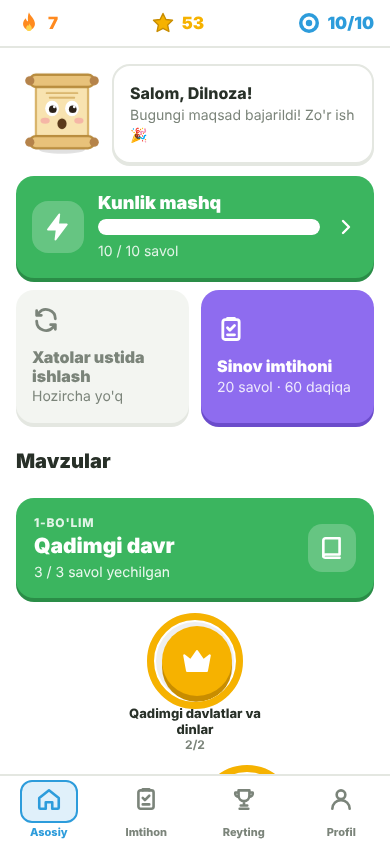
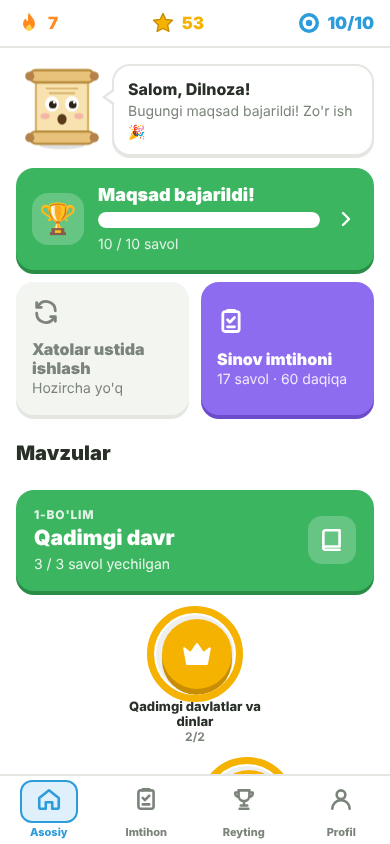
Dizayn: onboarding, konfetti, animatsiyalar; rim raqamlari tuzatildi
- Birinchi kirishda kutib olish oynasi va katta kartalar orqali alifbo tanlash
- Yaxshi natija va kunlik maqsad bajarilganda konfetti, XP/foiz sanab chiqadi
- Qahramonning nutq pufagi, skelet yuklanish, javobda sakrash/silkinish
- Bajarilgan kunlik maqsad uchun alohida ko'rinish
- Qiyinlik yulduzlari: bo'sh yulduzlar xira rangda
- Izoh oynasi ochiq bo'lsa pastki variantlarni ko'rish uchun joy qoldiriladi
- Rim raqamlari (XIV asr, Kir II, Pyotr I) kirillga o'girilmaydi
- prefers-reduced-motion: harakatni kamaytirishni xohlaganlar uchun animatsiyalar o'chadi
- README yangilandi

Claude-Session: https://claude.ai/code/session_01N5WVTvoap9F5uzAW8nn97q

Changed region(s): [[0.0308, 0.0616, 0.9538, 0.8934], [0.5538, 0.8934, 0.7385, 0.9242], [0.8615, 0.2464, 0.8923, 0.2773]]

diff --git a/webapp/src/styles.css b/webapp/src/styles.css
@@ -430,3 +430,51 @@ table.grades td { padding: 6px 4px; border-bottom: 1px solid var(--border); }
   display: grid; place-items: center; overflow: hidden; flex-shrink: 0; color: var(--muted); font-size: 12px; font-weight: 800;
 }
 .image-field .thumb img { width: 100%; height: 100%; object-fit: cover; }
+
+/* ============ Konfetti, skelet, nutq pufagi ============ */
+.confetti { position: fixed; inset: 0; width: 100vw; height: 100vh; pointer-events: none; z-index: 80; }
+.skel {
+  border-radius: 16px; background: linear-gradient(90deg, var(--surface-2) 25%, var(--border) 50%, var(--surface-2) 75%);
+  background-size: 200% 100%; animation: shimmer 1.3s linear infinite;
+}
+@keyframes shimmer { from { background-position: 200% 0; } to { background-position: -200% 0; } }
+
+.bubble {
+  position: relative; background: var(--surface); border: 2px solid var(--border); border-radius: 18px;
+  padding: 12px 14px; box-shadow: var(--shadow);
+}
+.bubble::before, .bubble::after { content: ""; position: absolute; border-style: solid; }
+/* chap tomonga qaragan dumcha (qahramon chapda) */
+.bubble.left::before { left: -12px; top: 22px; border-width: 9px 12px 9px 0; border-color: transparent var(--border) transparent transparent; }
+.bubble.left::after { left: -8px; top: 24px; border-width: 7px 10px 7px 0; border-color: transparent var(--surface) transparent transparent; }
+/* pastga qaragan dumcha (qahramon pastda) */
+.onboarding .bubble::before { left: 50%; bottom: -12px; margin-left: -9px; border-width: 12px 9px 0; border-color: var(--border) transparent transparent; }
+.onboarding .bubble::after { left: 50%; bottom: -8px; margin-left: -7px; border-width: 10px 7px 0; border-color: var(--surface) transparent transparent; }
+.onboarding .bubble { font-weight: 800; margin-bottom: 4px; }
+
+.feature-line { padding: 10px 12px; border: 2px solid var(--border); border-radius: 16px; gap: 14px; }
+.feature-emoji { font-size: 28px; width: 44px; height: 44px; display: grid; place-items: center; background: var(--surface-2); border-radius: 12px; }
+.alphabet-pick { display: grid; grid-template-columns: 1fr 1fr; gap: 12px; }
+.alphabet-pick .pick {
+  display: flex; flex-direction: column; align-items: center; gap: 4px; padding: 18px 8px;
+  border: 2px solid var(--border); border-radius: 18px; background: var(--surface); box-shadow: 0 4px 0 var(--border);
+  font-weight: 900; font-size: 16px; transition: transform .06s;
+}
+.alphabet-pick .pick .big { font-size: 38px; line-height: 1; color: var(--muted); }
+.alphabet-pick .pick:active { transform: translateY(4px); box-shadow: none; }
+.alphabet-pick .pick.on { border-color: var(--blue); background: var(--blue-soft); box-shadow: 0 4px 0 var(--blue); color: var(--blue); }
+.alphabet-pick .pick.on .big { color: var(--blue); }
+
+/* Javob animatsiyalari */
+.option.correct { animation: bounce .45s cubic-bezier(.3,1.6,.6,1); }
+.option.wrong { animation: shake .35s ease-in-out; }
+@keyframes bounce { 0% { transform: scale(1); } 40% { transform: scale(1.04); } 100% { transform: scale(1); } }
+
+/* Natija: katta olov */
+.big-flame { position: relative; display: grid; place-items: center; }
+.big-flame .num { position: absolute; bottom: 10px; font-size: 30px; font-weight: 900; color: #fff; text-shadow: 0 2px 0 var(--orange-dark); }
+.goal-chest { font-size: 30px; }
+
+@media (prefers-reduced-motion: reduce) {
+  *, *::before, *::after { animation-duration: .01ms !important; animation-iteration-count: 1 !important; transition-duration: .01ms !important; }
+}

diff --git a/webapp/src/pages/Lesson.tsx b/webapp/src/pages/Lesson.tsx
@@ -1,5 +1,7 @@
 import { useEffect, useRef, useState } from "react";
 import { Check, Close, Cross, Flag, Flame, Star } from "../components/Icons";
+import { Confetti } from "../components/Confetti";
+import { CountUp } from "../components/CountUp";
 import { Mascot } from "../components/Mascot";
 import { QuestionView } from "../components/QuestionView";
 import { ReportSheet } from "../components/ReportSheet";
@@ -103,6 +105,7 @@ export function LessonPage({ mode, id }: { mode: Mode; id: number | null }) {
     const mood = accuracy >= 70 ? "wow" : accuracy >= 40 ? "happy" : "sad";
     return (
       <div className="page no-nav">
+        <Confetti run={accuracy >= 70 || stats.goal} />
         <div className="result-hero">
           <Mascot mood={mood} size={150} className="pop" />
           <h1 className="pop">{accuracy >= 70 ? t("Dars yakunlandi!") : t("Yaxshi harakat!")}</h1>
@@ -111,14 +114,14 @@ export function LessonPage({ mode, id }: { mode: Mode; id: number | null }) {
           </p>
         </div>
         <div className="tiles">
-          <div className="tile gold pop"><div className="label">{t("Jami XP")}</div><div className="value"><Star size={22} />{stats.xp}</div></div>
-          <div className="tile green pop"><div className="label">{t("Aniqlik")}</div><div className="value">{accuracy}%</div></div>
+          <div className="tile gold pop"><div className="label">{t("Jami XP")}</div><div className="value"><Star size={22} /><CountUp value={stats.xp} /></div></div>
+          <div className="tile green pop"><div className="label">{t("Aniqlik")}</div><div className="value"><CountUp value={accuracy} suffix="%" /></div></div>
           <div className="tile blue pop"><div className="label">{t("Vaqt")}</div><div className="value">{Math.floor(seconds / 60)}:{String(seconds % 60).padStart(2, "0")}</div></div>
         </div>
         <div className="spacer" />
         {(stats.goal || stats.streakUp) && (
           <div className="card colored orange feature pop">
-            <div className="icon-bubble"><Flame size={34} /></div>
+            <div className="icon-bubble big-flame"><Flame size={40} /></div>
             <div>
               <h3>{t(`${stats.streak} kun ketma-ket!`)}</h3>
               <div className="small muted">{stats.goal ? t("Bugungi maqsad bajarildi 🎉") : t("Ertaga ham qaytib keling!")}</div>
@@ -139,7 +142,8 @@ export function LessonPage({ mode, id }: { mode: Mode; id: number | null }) {
         <div className="grow"><Progress value={(idx + (result ? 1 : 0)) / total} /></div>
         {stats.combo >= 2 && <span className="combo pop">🔥 {stats.combo}</span>}
       </div>
-      <div className="page no-nav" style={{ paddingTop: 4 }}>
+      {/* Izoh oynasi ochiq bo'lsa, pastki variantlarni surib ko'rish uchun joy qoldiramiz */}
+      <div className="page no-nav" style={{ paddingTop: 4, paddingBottom: result ? "min(60vh, 420px)" : undefined }}>
         <div className="small muted bold" style={{ marginBottom: 8 }}>
           {source === "review" ? t("Takrorlash") : source === "daily" ? t("Kunlik mashq") : t("Mashq")} · {idx + 1}/{total}
         </div>

diff --git a/webapp/src/pages/Onboarding.tsx b/webapp/src/pages/Onboarding.tsx
@@ -1,0 +1,64 @@
+import { useState } from "react";
+import { Mascot } from "../components/Mascot";
+import { toast } from "../components/ui";
+import { api } from "../lib/api";
+import { useStore } from "../lib/store";
+import { haptic } from "../lib/telegram";
+import { toCyrillic as toCyr, type Alphabet } from "../lib/translit";
+
+const FEATURES: [string, string, string][] = [
+  ["🔥", "Har kuni 10 ta savol", "Ketma-ket kunlarni uzmang"],
+  ["🔁", "Xatolar ustida ishlash", "Xato savollar o'z vaqtida qaytadi"],
+  ["🎯", "Sinov imtihoni", "Taymer, ball va daraja bilan"],
+];
+
+/** Birinchi kirishda: kutib olish va alifbo tanlash */
+export function Onboarding() {
+  const { reload } = useStore();
+  const [choice, setChoice] = useState<Alphabet | null>(null);
+  const [busy, setBusy] = useState(false);
+  const L = (latn: string, cyrl: string) => (choice === "cyrl" ? cyrl : latn);
+
+  async function start() {
+    if (!choice) return;
+    setBusy(true);
+    try {
+      await api("/me", { method: "PATCH", body: { alphabet: choice } });
+      haptic.success();
+      await reload();
+    } catch (e) {
+      toast((e as Error).message, "error");
+      setBusy(false);
+    }
+  }
+
+  return (
+    <div className="page no-nav onboarding">
+      <div className="center stack" style={{ alignItems: "center", gap: 6 }}>
+        <div className="bubble pop">{L("Salom! Men Tarixchiman 👋", "Салом! Мен Тарихчиман 👋")}</div>
+        <Mascot size={150} mood="happy" className="bob" />
+        <h1 style={{ fontSize: 26 }}>{L("Tarixni o'yin kabi o'rganing", "Тарихни ўйин каби ўрганинг")}</h1>
+        <p className="muted">{L("Milliy sertifikatga tayyorgarlik", "Миллий сертификатга тайёргарлик")}</p>
+      </div>
+      <div className="stack" style={{ marginTop: 20 }}>
+        {FEATURES.map(([icon, title, sub]) => (
+          <div key={title} className="row feature-line">
+            <span className="feature-emoji">{icon}</span>
+            <div><div className="bold">{L(title, toCyr(title))}</div><div className="small muted">{L(sub, toCyr(sub))}</div></div>
+          </div>
+        ))}
+      </div>
+      <div className="section-title" style={{ marginTop: 20 }}>{L("Alifboni tanlang", "Алифбони танланг")}</div>
+      <div className="alphabet-pick">
+        {([["latn", "Aa", "Lotin"], ["cyrl", "Аа", "Кирилл"]] as const).map(([v, big, label]) => (
+          <button key={v} className={`pick ${choice === v ? "on" : ""}`} onClick={() => { haptic.select(); setChoice(v); }}>
+            <span className="big">{big}</span>{label}
+          </button>
+        ))}
+      </div>
+      <div className="footer-bar"><div className="inner">
+        <button className="btn block" disabled={!choice || busy} onClick={start}>{L("Boshlash", "Бошлаш")}</button>
+      </div></div>
+    </div>
+  );
+}

diff --git a/webapp/src/components/Confetti.tsx b/webapp/src/components/Confetti.tsx
@@ -1,0 +1,57 @@
+// Bayram konfettisi (canvas). Hech qanday kutubxonasiz, ~2.5 soniya.
+import { useEffect, useRef } from "react";
+
+const COLORS = ["#3bb55f", "#f6b200", "#2d9cdb", "#ff8a1f", "#8e6cef", "#eb5757"];
+
+export function Confetti({ run = true }: { run?: boolean }) {
+  const ref = useRef<HTMLCanvasElement>(null);
+  useEffect(() => {
+    if (!run) return;
+    if (window.matchMedia?.("(prefers-reduced-motion: reduce)").matches) return;
+    const canvas = ref.current!;
+    const ctx = canvas.getContext("2d")!;
+    const dpr = window.devicePixelRatio || 1;
+    const resize = () => {
+      canvas.width = window.innerWidth * dpr;
+      canvas.height = window.innerHeight * dpr;
+    };
+    resize();
+    const W = () => canvas.width;
+    const parts = Array.from({ length: 140 }, () => ({
+      x: W() / 2 + (Math.random() - 0.5) * W() * 0.3,
+      y: canvas.height * 0.35,
+      vx: (Math.random() - 0.5) * 16 * dpr,
+      vy: (-Math.random() * 16 - 6) * dpr,
+      w: (6 + Math.random() * 6) * dpr,
+      h: (8 + Math.random() * 8) * dpr,
+      r: Math.random() * Math.PI,
+      vr: (Math.random() - 0.5) * 0.3,
+      c: COLORS[Math.floor(Math.random() * COLORS.length)],
+    }));
+    const start = performance.now();
+    let frame = 0;
+    const tick = (now: number) => {
+      const t = now - start;
+      ctx.clearRect(0, 0, canvas.width, canvas.height);
+      ctx.globalAlpha = t > 1800 ? Math.max(0, 1 - (t - 1800) / 700) : 1;
+      for (const p of parts) {
+        p.vy += 0.45 * dpr;
+        p.vx *= 0.99;
+        p.x += p.vx;
+        p.y += p.vy;
+        p.r += p.vr;
+        ctx.save();
+        ctx.translate(p.x, p.y);
+        ctx.rotate(p.r);
+        ctx.fillStyle = p.c;
+        ctx.fillRect(-p.w / 2, -p.h / 2, p.w, p.h * Math.abs(Math.cos(p.r * 2)));
+        ctx.restore();
+      }
+      if (t < 2500) frame = requestAnimationFrame(tick);
+      else ctx.clearRect(0, 0, canvas.width, canvas.height);
+    };
+    frame = requestAnimationFrame(tick);
+    return () => cancelAnimationFrame(frame);
+  }, [run]);
+  return <canvas ref={ref} className="confetti" aria-hidden />;
+}

diff --git a/webapp/src/pages/Exam.tsx b/webapp/src/pages/Exam.tsx
@@ -1,5 +1,7 @@
 import { useCallback, useEffect, useMemo, useRef, useState } from "react";
 import { ChevronLeft, ChevronRight, Clipboard, Clock, Close } from "../components/Icons";
+import { Confetti } from "../components/Confetti";
+import { CountUp } from "../components/CountUp";
 import { Mascot } from "../components/Mascot";
 import { QuestionView } from "../components/QuestionView";
 import { Loading, Ring, Sheet, toast } from "../components/ui";
@@ -218,6 +220,7 @@ function ExamResult({ result, onDone }: { result: Result; onDone: () => void }) 
   const item = open !== null ? result.items[open] : null;
   return (
     <div className="page no-nav stack">
+      <Confetti run={result.percent >= 50} />
       <div className="result-hero">
         <div className="grade-badge pop">{result.grade}</div>
         <h1 style={{ color: "var(--purple)" }}>{t("Imtihon yakunlandi!")}</h1>
@@ -226,7 +229,7 @@ function ExamResult({ result, onDone }: { result: Result; onDone: () => void }) 
       <div className="row" style={{ justifyContent: "center" }}>
         <Ring value={result.percent / 100} size={150} stroke={14} color="var(--purple)">
           <div className="center">
-            <div style={{ fontSize: 30, fontWeight: 900 }}>{result.score}</div>
+            <div style={{ fontSize: 30, fontWeight: 900 }}>{result.score % 1 ? result.score : <CountUp value={result.score} />}</div>
             <div className="small muted">/ {result.max_score} {t("ball")}</div>
           </div>
         </Ring>

diff --git a/webapp/src/pages/Home.tsx b/webapp/src/pages/Home.tsx
@@ -78,7 +78,7 @@ export function HomePage() {
         {/* Salomlashish */}
         <div className="row" style={{ gap: 4 }}>
           <Mascot size={92} mood={goalDone ? "wow" : "happy"} className="bob" />
-          <div className="card grow" style={{ position: "relative" }}>
+          <div className="bubble left grow">
             <div className="bold">{t(firstName ? `Salom, ${firstName}!` : "Salom!")}</div>
             <div className="small muted">
               {goalDone
@@ -92,9 +92,9 @@ export function HomePage() {
 
         {/* Kunlik mashq */}
         <button className="card tap colored green feature" onClick={() => { haptic.tap(); navigate("/lesson?mode=daily"); }}>
-          <div className="icon-bubble"><Lightning size={30} /></div>
+          <div className="icon-bubble">{goalDone ? <span className="goal-chest">🏆</span> : <Lightning size={30} />}</div>
           <div className="grow stack" style={{ gap: 6 }}>
-            <h3>{t("Kunlik mashq")}</h3>
+            <h3>{goalDone ? t("Maqsad bajarildi!") : t("Kunlik mashq")}</h3>
             <Progress value={done / goal} onColor />
             <div className="small muted">{t(`${Math.min(done, goal)} / ${goal} savol`)}</div>
           </div>

diff --git a/webapp/src/components/Skeleton.tsx b/webapp/src/components/Skeleton.tsx
@@ -1,0 +1,14 @@
+/** Ma'lumot yuklanayotganda sahifa shaklidagi "skelet" */
+export function HomeSkeleton() {
+  return (
+    <div className="page stack" aria-busy>
+      <div className="row between"><div className="skel" style={{ width: 60, height: 26 }} /><div className="skel" style={{ width: 60, height: 26 }} /><div className="skel" style={{ width: 60, height: 26 }} /></div>
+      <div className="row"><div className="skel" style={{ width: 88, height: 88, borderRadius: 24 }} /><div className="skel grow" style={{ height: 72 }} /></div>
+      <div className="skel" style={{ height: 104 }} />
+      <div className="row"><div className="skel grow" style={{ height: 116 }} /><div className="skel grow" style={{ height: 116 }} /></div>
+      <div className="skel" style={{ height: 84, marginTop: 16 }} />
+      <div className="skel" style={{ width: 78, height: 78, borderRadius: "50%", alignSelf: "center", marginTop: 20 }} />
+      <div className="skel" style={{ width: 78, height: 78, borderRadius: "50%", alignSelf: "center", marginLeft: 100 }} />
+    </div>
+  );
+}

diff --git a/webapp/src/App.tsx b/webapp/src/App.tsx
@@ -1,10 +1,12 @@
 import { useEffect } from "react";
 import { Clipboard, Home, Trophy, User } from "./components/Icons";
 import { Mascot } from "./components/Mascot";
-import { Loading, ToastHost } from "./components/ui";
+import { ToastHost } from "./components/ui";
 import { AdminApp } from "./pages/admin/AdminApp";
 import { ExamPage } from "./pages/Exam";
 import { HomePage } from "./pages/Home";
+import { Onboarding } from "./pages/Onboarding";
+import { HomeSkeleton } from "./components/Skeleton";
 import { LessonPage } from "./pages/Lesson";
 import { ProfilePage } from "./pages/Profile";
 import { RatingPage } from "./pages/Rating";
@@ -58,7 +60,8 @@ function UserApp() {
       </div>
     );
   }
-  if (!home) return <Loading />;
+  if (!home) return <HomeSkeleton />;
+  if (!home.user.alphabet_chosen && !path.startsWith("/admin")) return <Onboarding />;
 
   if (path === "/lesson") {
     const mode = (params.get("mode") || "mixed") as "daily" | "review" | "mixed" | "period" | "topic";

diff --git a/webapp/src/components/CountUp.tsx b/webapp/src/components/CountUp.tsx
@@ -1,0 +1,18 @@
+import { useEffect, useState } from "react";
+
+/** Raqam 0 dan qiymatgacha sanab chiqadi (natija ekranlari uchun) */
+export function CountUp({ value, duration = 900, suffix = "" }: { value: number; duration?: number; suffix?: string }) {
+  const [n, setN] = useState(0);
+  useEffect(() => {
+    let frame = 0;
+    const start = performance.now();
+    const tick = (now: number) => {
+      const p = Math.min(1, (now - start) / duration);
+      setN(Math.round(value * (1 - Math.pow(1 - p, 3))));
+      if (p < 1) frame = requestAnimationFrame(tick);
+    };
+    frame = requestAnimationFrame(tick);
+    return () => cancelAnimationFrame(frame);
+  }, [value, duration]);
+  return <>{n}{suffix}</>;
+}

diff --git a/webapp/src/components/ui.tsx b/webapp/src/components/ui.tsx
@@ -94,6 +94,12 @@ export function Avatar({ name, size = "", seed = 0 }: { name: string; size?: "" 
   return <div className={`avatar ${size}`} style={{ "--c": color } as React.CSSProperties}>{letters}</div>;
 }
 
+/** Qiyinlik: to'la yulduzlar oltin rangda, qolganlari xira */
 export function Stars({ n }: { n: number }) {
-  return <span className="chip gold">{"★".repeat(n)}{"☆".repeat(Math.max(0, 3 - n))}</span>;
+  const label = ["", "Oson", "O'rta", "Qiyin"][n] ?? "";
+  return (
+    <span className="chip gold" title={label} aria-label={label}>
+      {"★".repeat(n)}<span style={{ opacity: 0.3 }}>{"★".repeat(Math.max(0, 3 - n))}</span>
+    </span>
+  );
 }

diff --git a/webapp/src/lib/translit.ts b/webapp/src/lib/translit.ts
@@ -9,7 +9,8 @@ const SINGLE: Record<string, string> = {
 };
 const Y_VOWELS: Record<string, string> = { o: "ё", u: "ю", a: "я", e: "е" };
 const VOWELS = new Set("aeiouAEIOU");
-const SKIP = /(<[^>]+>|&#?\w+;|\{[^}]*\}|https?:\/\/\S+|\bXP\b)/;
+// Rim raqamlari (XIV asr, Pyotr I, Kir II) o'girilmaydi
+const SKIP = /(<[^>]+>|&#?\w+;|\{[^}]*\}|https?:\/\/\S+|\bXP\b|\b[IVXLCDM]+\b)/;
 
 const isApo = (ch: string) => ch !== "" && APOSTROPHES.includes(ch);
 const isAlpha = (ch: string) => ch !== "" && ch.toLowerCase() !== ch.toUpperCase();

diff --git a/backend/app/services/translit.py b/backend/app/services/translit.py
@@ -18,8 +18,9 @@ SINGLE = {
 Y_VOWELS = {"o": "ё", "u": "ю", "a": "я", "e": "е"}
 VOWELS = set("aeiouAEIOU")
 
-# O'girilmaydigan bo'laklar: HTML teglari, &amp; belgilari, {o'zgaruvchilar}, havolalar va XP
-_SKIP = re.compile(r"(<[^>]+>|&#?\w+;|\{[^}]*\}|https?://\S+|\bXP\b)")
+# O'girilmaydigan bo'laklar: HTML teglari, &amp; belgilari, {o'zgaruvchilar}, havolalar, XP
+# va rim raqamlari (XIV asr, Pyotr I, Kir II) — tarix matnlarida juda ko'p uchraydi
+_SKIP = re.compile(r"(<[^>]+>|&#?\w+;|\{[^}]*\}|https?://\S+|\bXP\b|\b[IVXLCDM]+\b)")
 
 
 def _case(src: str, cyr: str) -> str:
